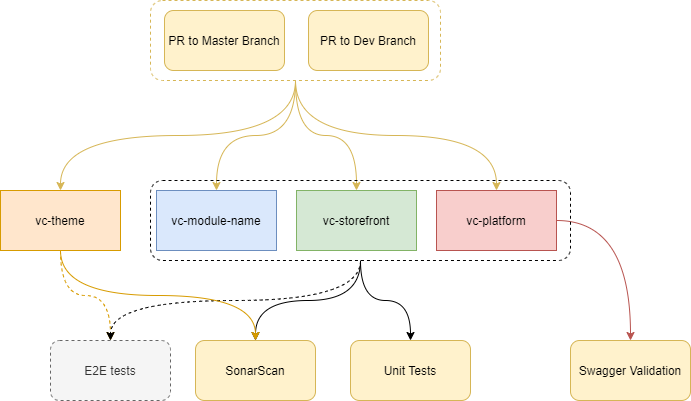
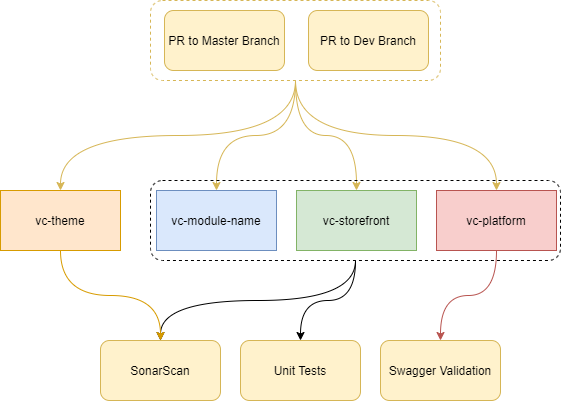
VP-7304: Update workflows documentation

diff --git a/docs/index.md b/docs/index.md
@@ -12,18 +12,18 @@ VirtoCommerce continuous integration based on [GitHub Actions feature](https://d
 
 ## Workflows
 
-Two type of workflows have been implemented main workflows and release alpha workflows.
+Two type of workflows have been implemented main workflows and tests automation workflows.
 
-### Main workflows
+## Main workflow
 
-Main workflows implement base VirtoCommerce CI:
+**Main** workflow implement base VirtoCommerce CI:
 
 * Module CI;
 * Platform CI;
 * Storefront CI;
 * Theme CI.
 
-Workflows triggers automatically on Pull Request or on Push to Master or Dev branches.
+Workflow triggers automatically on Pull Request or on Push to Master or Dev branches.
 
 On Pull Request event workflows force only code checks
 ![Checks](media/GitHub-Actions-flows-Checks-Flow.png)
@@ -38,7 +38,27 @@ On Push to Master branch event workflows force code checks, creates artifacts fo
 
 ### Release alpha version
 
-To crete artifacts for alpha version (pre-release)  trigger manually main workflow from specified branch. It create alpha version artifacts and publish it to GtHub packages (images for Platform and Storefront) or to Azure Blob Storage (zipped binaries for Modules or Themes).
+To crete artifacts for alpha version (pre-release) run manually main workflow from specified branch. It create alpha version artifacts and publish it to GtHub packages (images for Platform and Storefront) or to Azure Blob Storage (zipped binaries for Modules or Themes).
+
+## Tests automation workflows
+
+![Test workflows](media/GitHub-Actions-flows-Tests-automations-Flow.png)
+
+### OWASP ZAP
+
+**OWASP ZAP** workflow implements dynamic application security testing. Workflow triggers automatically on Push to Dev branch or manually. The testing result report placed in workflow artifacts.
+
+![Workflow artifacts](media/action-artifacts.png)
+
+Read more about [OWASP ZAP](https://www.zaproxy.org/docs/docker/full-scan/)
+
+### E2E API tests
+
+**Platform E2E** workflow runs API tests for platform and modules (in commerce bundle) endpoints. Workflow triggers automatically on Pull Request to Master or Dev branch or manually. When workflow runs manually `testSuite` parameter should be specified. A test suite is a collection of multiple different or duplicate test cases in [Katalone](https://docs.katalon.com/) test project. Default value is `Test Suites/Platform_start`.
+
+**Module E2E** workflow runs API tests for current module (repository where workflow runs) and all dependend modules endpoints.
+
+Actual API tests you can find in [vc-quality-gate-katalon](https://github.com/VirtoCommerce/vc-quality-gate-katalon) repository.
 
 ## Secrets
 
